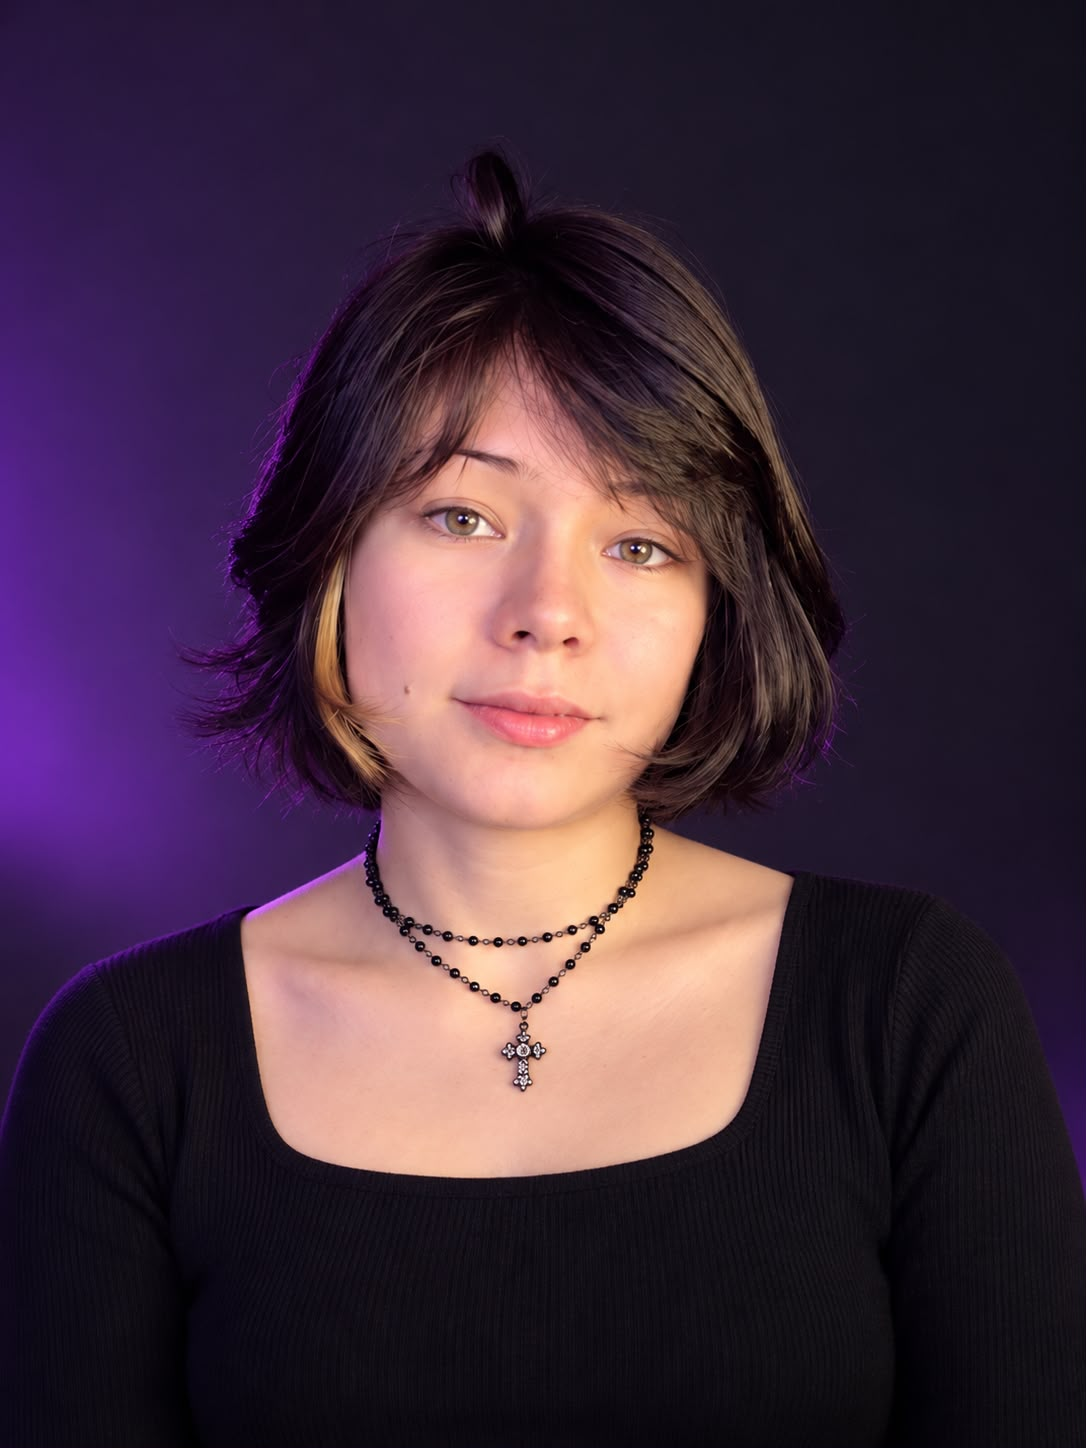
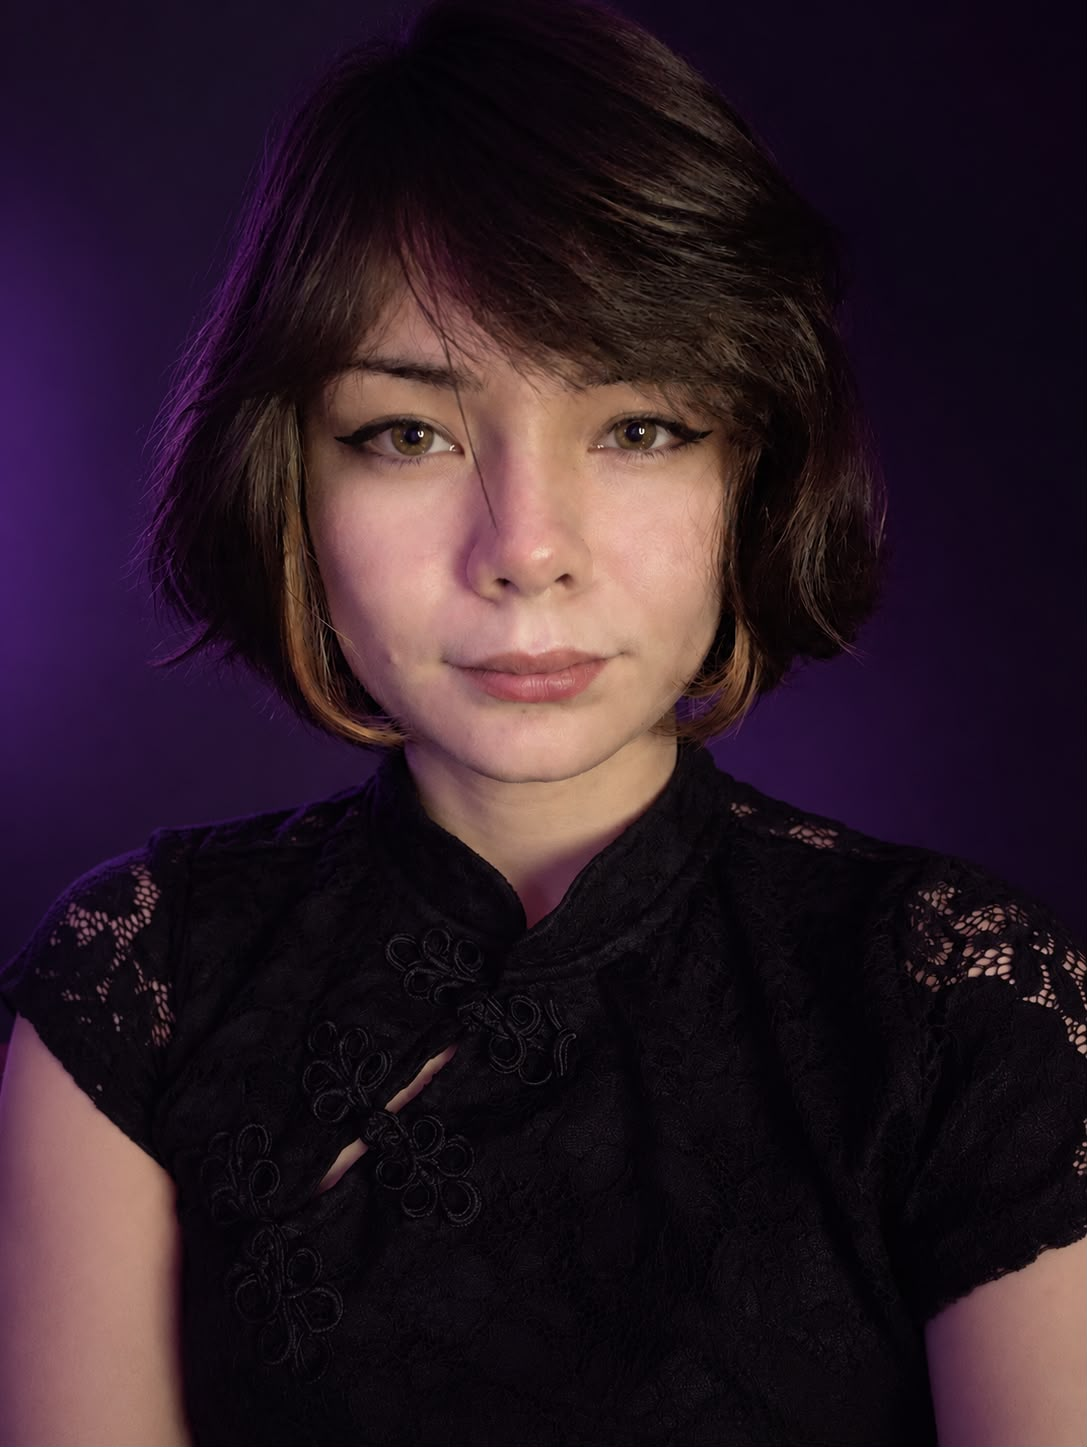
Atualizando foto

diff --git a/src/components/About.jsx b/src/components/About.jsx
@@ -25,11 +25,13 @@ export default function About() {
     src="/preview/perfil.jpeg"
     alt="Foto de Rayssa"
     style={{
-      width: "150px",
-      height: "150px",
-      borderRadius: "50%",
+      width: "130px",
+      height: "180px",
+      borderRadius: "70%",
       objectFit: "cover",
-      objectPosition: "center",
+      objectPosition: "center 70%",
+      display:"block",
+      margin:"0 auto",
      }}
        />
 
